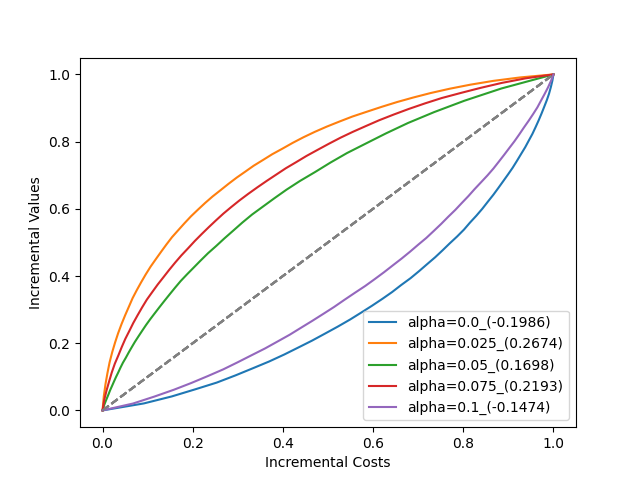
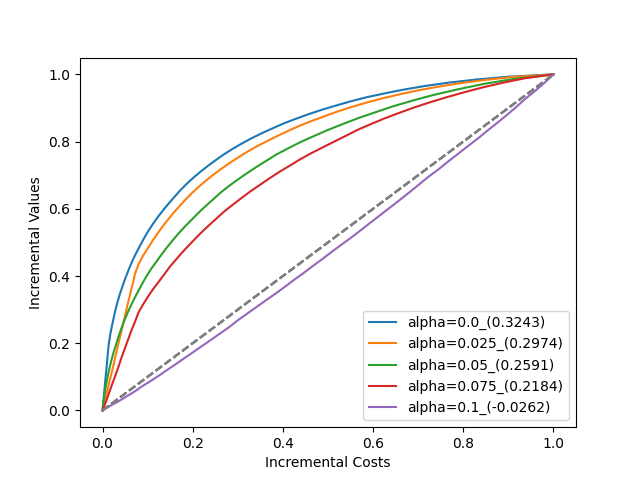
fix

diff --git a/src/make_data.py b/src/make_data.py
@@ -137,6 +137,9 @@ class DatasetGenerator:
         T_prob_pred = T_prob + np.random.normal(0, std, size=len(features))
         T_prob_pred[rct_flag == 1] = 0.5
         T_prob_pred = T_prob_pred.clip(0.01, 0.99)
+        plt.clf()
+        plt.hist(T_prob_pred, bins=20, alpha=0.5, label="T_prob")
+        plt.savefig("treatment_prob_pred.png")
         return {"T_prob_pred": T_prob_pred}
 
     # T_ProbとT_Prob_predのRMSEを計算
@@ -339,7 +342,11 @@ class DatasetGenerator:
         # import pdb
 
         # pdb.set_trace()
-
+        plt.clf()
+        plt.hist(doubly_robust["y_r_dr"][T==1], bins=20, alpha=0.5, label="y_r_dr_treatment")
+        plt.hist(doubly_robust["y_r_dr"][T==0], bins=20, alpha=0.5, label="y_r_dr_control")
+        plt.legend()
+        plt.savefig("y_r_dr.png")
         return doubly_robust
 
     def culculate_ipw(

diff --git a/src/evaluate/evaluate.py b/src/evaluate/evaluate.py
@@ -73,7 +73,6 @@ def cost_curve(
     plt.savefig("cost_curve.png")
 
 
-
 def optimize_alpha(
     rct_ratio: float,
     roi_scores: NDArray[Any],
@@ -92,7 +91,7 @@ def optimize_alpha(
         top_p_indices = np.concatenate(
             (
                 sorted_indices[: int(p * len(model_based_treatment))],
-                perm[: int((1 - p) * random_treatment_indices)],
+                perm[: int(p * random_treatment_indices)],
             )
         )
 
@@ -112,6 +111,7 @@ def optimize_alpha(
     incremental_values[0] = 0
 
     return incremental_costs, incremental_values
+
 
 def cost_curve_alpha(
     rct_ratio: float,
@@ -144,4 +144,3 @@ def cost_curve_alpha(
     plt.ylabel("Incremental Values")
     plt.legend()
     plt.savefig(f"cost_curve_ps_delta={ps_delta}.png")
-

diff --git a/main.py b/main.py
@@ -30,7 +30,7 @@ def main(predict_ps: bool, validate: bool) -> None:
     num_epochs_list = [200, 50]
     weight_decay_list = [1e-3]
     lr_list = [1e-4, 1e-3]
-    batch_size_list = [512]
+    batch_size_list = [128, 256, 512]
     for rct_ratio in _alpha_list:
         alpha_list.append(rct_ratio)
         dataset = DatasetGenerator(
